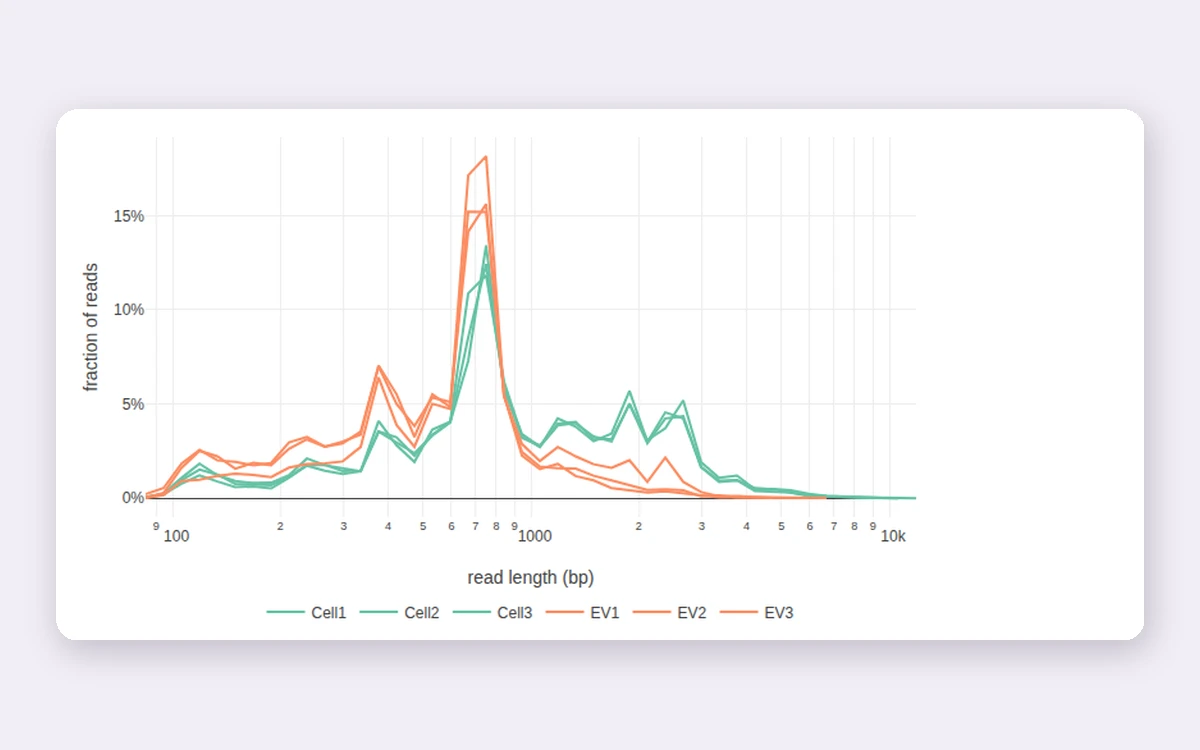
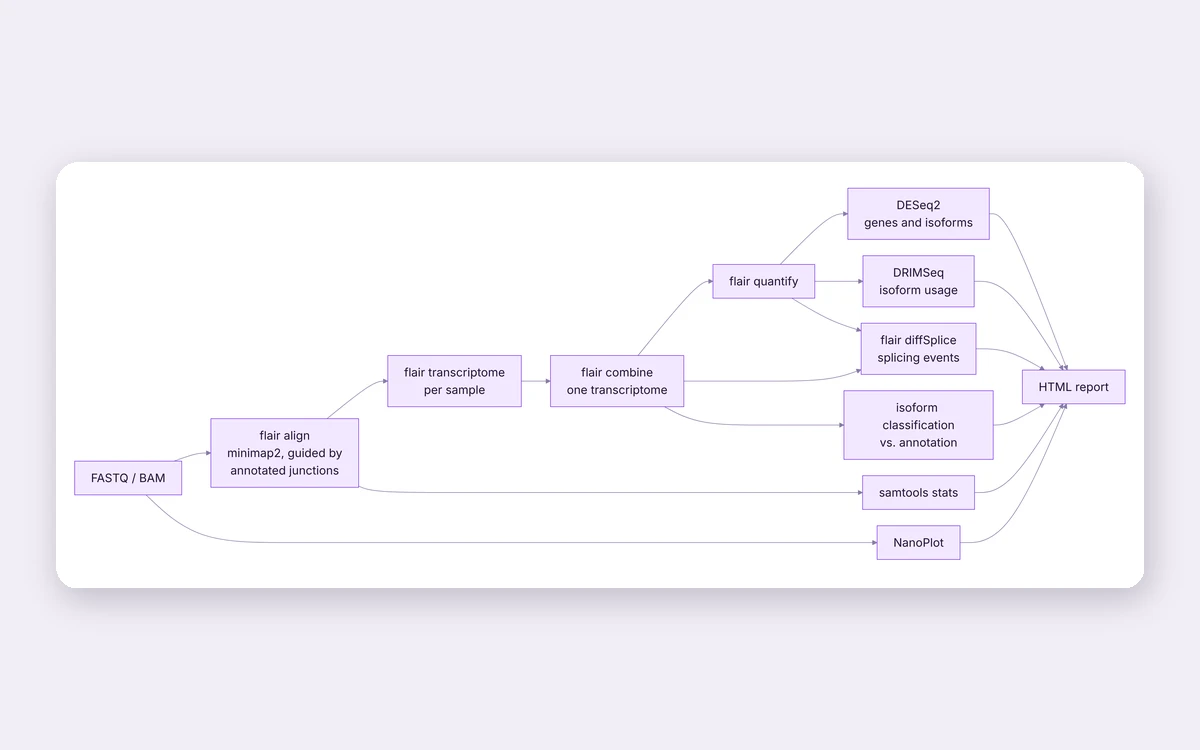
NanoIsoform thumbnail: workflow diagram instead of read-length plot
Claude-Session: https://claude.ai/code/session_01DsuFBFC8R9Vn877HPJq7qD

diff --git a/src/content/work/nanoIsoform.md b/src/content/work/nanoIsoform.md
@@ -2,7 +2,7 @@
 title: NanoIsoform – Isoform Analysis from Nanopore Long Reads
 publishDate: 2026-10-12 00:00:00
 img: /assets/nanoisoform.webp
-img_alt: Read-length distributions of the six Nanopore samples in the NanoIsoform report
+img_alt: "NanoIsoform workflow: flair align, transcriptome, combine and quantify, then DESeq2, DRIMSeq and diffSplice, summarised in an HTML report"
 order: 2
 description: |
   A Snakemake workflow built around FLAIR for isoform discovery, differential expression, isoform usage and splicing from Oxford Nanopore long reads, with one HTML report.
